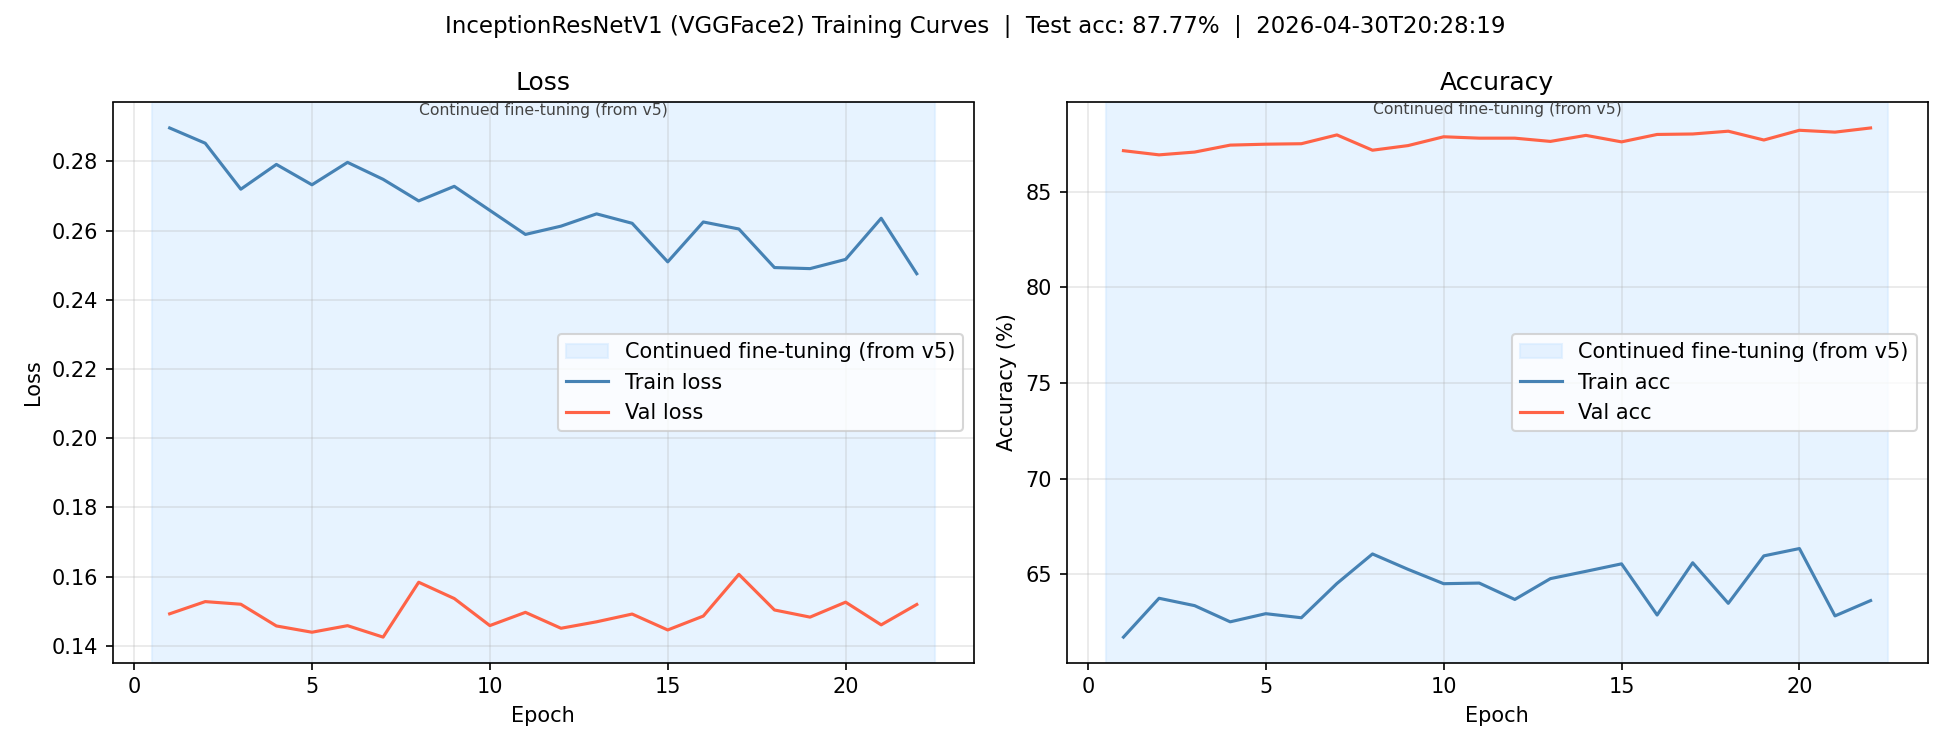
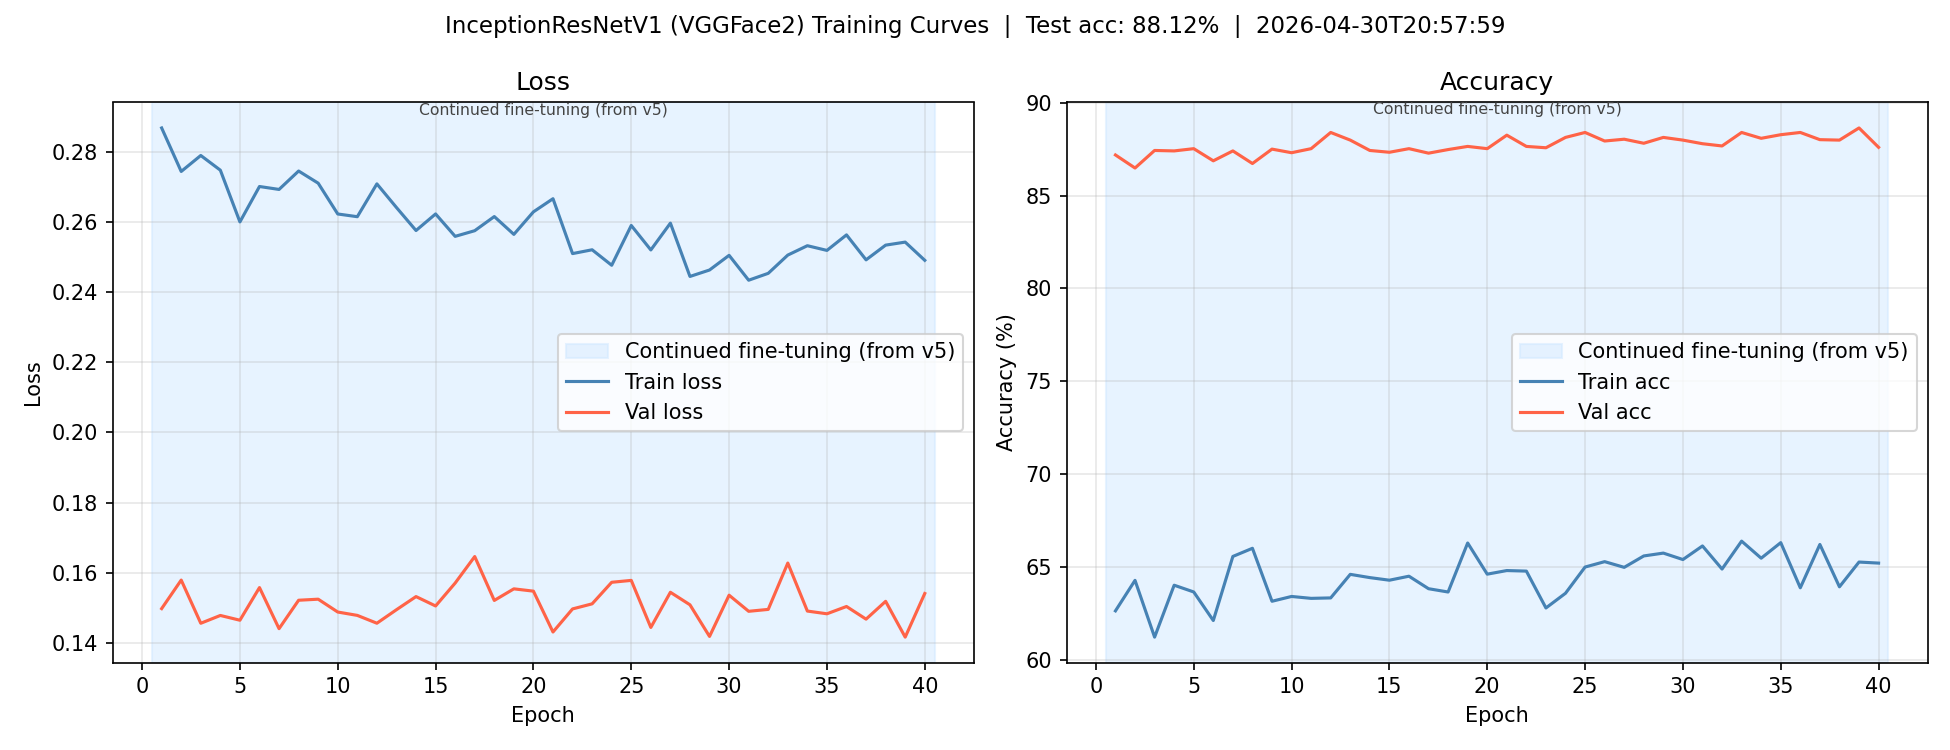
Update v7 — improved result from additional fine-tuning run (88.12%)
Re-ran fine-tuning from v6 checkpoint for 40 epochs.
Accuracy improved from 87.77% to 88.12%, best val acc 88.6%.

diff --git a/README.md b/README.md
@@ -14,7 +14,7 @@ Each version folder contains the training script, model weights, plots, and metr
 | `v4_2026-04-18_17-21/` | EfficientNet-B0 + MixUp + Label Smoothing + EMA + Cosine LR | FER-2013 + Balanced AffectNet + RAFDB | 77.65% | 2026-04-18 |
 | `v5_2026-04-18_22-30/` | InceptionResNetV1 (VGGFace2 face-pretrained) | FER-2013 + Balanced AffectNet + RAFDB | 86.68% | 2026-04-18 |
 | `v6_2026-04-19_00-12/` | InceptionResNetV1 + CutMix + TTA (fine-tuned from v5) | FER-2013 + Balanced AffectNet + RAFDB | 87.25% | 2026-04-19 |
-| `v7_2026-04-30_20-28/` | InceptionResNetV1 + CutMix + TTA (fine-tuned from v6) | FER-2013 + Balanced AffectNet + RAFDB | 87.77% | 2026-04-30 |
+| `v7_2026-04-30_20-28/` | InceptionResNetV1 + CutMix + TTA (fine-tuned from v6) | FER-2013 + Balanced AffectNet + RAFDB | 88.12% | 2026-04-30 |
 
 ## Datasets
 

diff --git a/v7_2026-04-30_20-28/README.md b/v7_2026-04-30_20-28/README.md
@@ -13,8 +13,8 @@ Same script as v6 with `RESUME_FROM` pointing to the v6 checkpoint.
 |---|---|
 | Starting point | v6 checkpoint (87.25%) |
 | LR | 5e-6 |
-| Epochs | 22 (early stopped) |
-| Best val acc | 88.3% |
+| Epochs | 40 |
+| Best val acc | 88.6% |
 | Augmentation | CutMix + MixUp (50/50) |
 | TTA | Yes (original + h-flip) |
 
@@ -26,7 +26,7 @@ Same script as v6 with `RESUME_FROM` pointing to the v6 checkpoint.
 |---|---|
 | v5 | 86.68% |
 | v6 | 87.25% |
-| **v7** | **87.77%** |
+| **v7** | **88.12%** |
 
 ---
 
